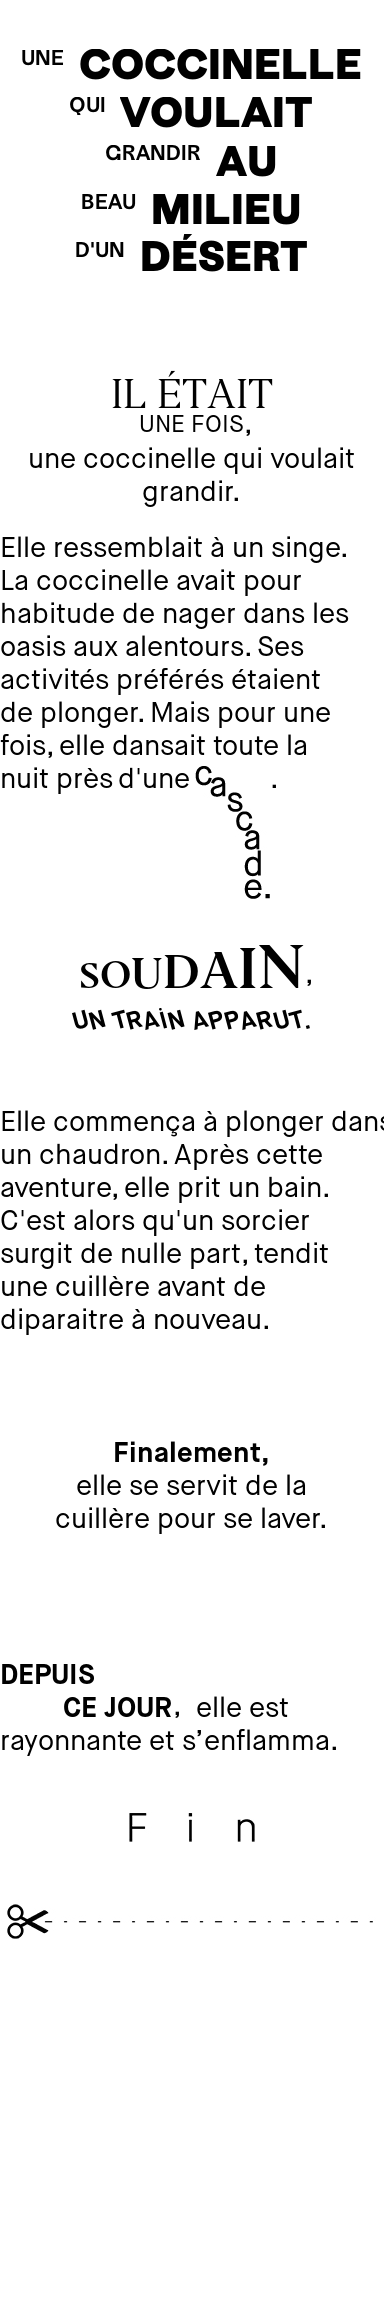
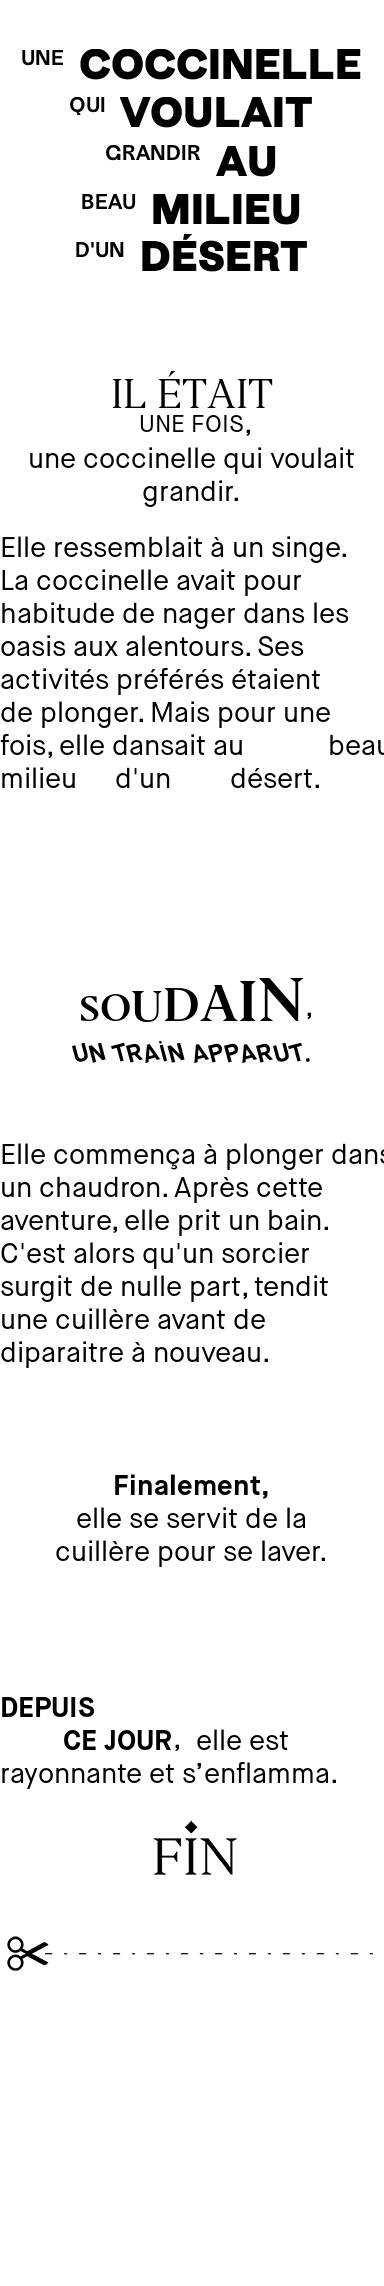
feat(story) : refacto place img place and add 'lune' effect

diff --git a/storydesign.py b/storydesign.py
@@ -143,86 +143,24 @@ class StoryDesign():
                             
                             
                 elif start_sentence == "à l'orée d'une forêt.":
-                    
                     left = effects.get_left_place(self.width, start_sentence, story_part, top, self.font_size)[0]
                     top = effects.get_left_place(self.width, start_sentence, story_part, top, self.font_size)[1]
-                            
-                    # place in the sentence
-                    words = start_sentence.split(" ")
-                    for word in words:
-                        if word == "forêt.":
-                            place_img = Image.open("assets/img/forêt.jpg")
-                            img_width, img_height = place_img.size
-                            comma_left = left + img_width
-                            
-                            if (left + img_width > self.width):
-                                effects.add_image("assets/img/forêt.jpg", True, top, img)
-                                context.text((comma_left, top), ', ', fill=self.text_color, font=text_maison_neue_book)
-                            else:
-                                effects.add_image("assets/img/forêt.jpg", True, top - spacing, img, left)
-                                context.text((comma_left, top - spacing), '.', fill=self.text_color, font=text_maison_neue_book)
-                        else :    
-                            context.text((left,top - spacing), word, fill=self.text_color, font=text_maison_neue_book)
-                            word_width, word_height = text_maison_neue_book.getsize(word)
-                            left += word_width + 5
-                            if (left + word_width) > self.width:
-                                left = 0
-                                top += spacing
+                    effects.place_img_position(self.width, start_sentence, spacing, self.font_size, self.text_color, top, left, context, img)
                 
                 elif start_sentence == "au coeur de la jungle.":
-                    
                     left = effects.get_left_place(self.width, start_sentence, story_part, top, self.font_size)[0]
                     top = effects.get_left_place(self.width, start_sentence, story_part, top, self.font_size)[1]
-                            
-                    # place in the sentence
-                    words = start_sentence.split(" ")
-                    for word in words:
-                        if word == "jungle.":
-                            place_img = Image.open("assets/img/jungle.jpg")
-                            img_width, img_height = place_img.size
-                            comma_left = left + img_width
-                            
-                            if (left + img_width > self.width):
-                                effects.add_image("assets/img/jungle.jpg", True, top, img)
-                                context.text((comma_left, top), ', ', fill=self.text_color, font=text_maison_neue_book)
-                            else:
-                                effects.add_image("assets/img/jungle.jpg", True, top - spacing, img, left)
-                                context.text((comma_left, top - spacing), '.', fill=self.text_color, font=text_maison_neue_book)
-                        else :    
-                            context.text((left,top - spacing), word, fill=self.text_color, font=text_maison_neue_book)
-                            word_width, word_height = text_maison_neue_book.getsize(word)
-                            left += word_width + 5
-                            if (left + word_width) > self.width:
-                                left = 0
-                                top += spacing
+                    effects.place_img_position(self.width, start_sentence, spacing, self.font_size, self.text_color, top, left, context, img)
                 
                 elif start_sentence == "près d'une cascade.":
-                    
                     left = effects.get_left_place(self.width, start_sentence, story_part, top, self.font_size)[0]
                     top = effects.get_left_place(self.width, start_sentence, story_part, top, self.font_size)[1]
-                            
-                    # place in the sentence
-                    words = start_sentence.split(" ")
-                    for word in words:
-                        if word == "cascade.":
-                            place_img = Image.open("assets/img/cascade.jpg")
-                            img_width, img_height = place_img.size
-                            comma_left = left + img_width
-                            
-                            if (left + img_width > self.width):
-                                effects.add_image("assets/img/cascade.jpg", True, top, img)
-                                context.text((comma_left, top), ', ', fill=self.text_color, font=text_maison_neue_book)
-                            else:
-                                effects.add_image("assets/img/cascade.jpg", True, top - spacing, img, left)
-                                context.text((comma_left, top - spacing), '.', fill=self.text_color, font=text_maison_neue_book)
-                        else :    
-                            context.text((left,top - spacing), word, fill=self.text_color, font=text_maison_neue_book)
-                            word_width, word_height = text_maison_neue_book.getsize(word)
-                            left += word_width + 5
-                            if (left + word_width) > self.width:
-                                left = 0
-                                top += spacing
-                        
+                    effects.place_img_position(self.width, start_sentence, spacing, self.font_size, self.text_color, top, left, context, img)
+                
+                elif start_sentence == "sur la lune.":
+                    left = effects.get_left_place(self.width, start_sentence, story_part, top, self.font_size)[0]
+                    top = effects.get_left_place(self.width, start_sentence, story_part, top, self.font_size)[1]
+                    effects.place_img_position(self.width, start_sentence, spacing, self.font_size, self.text_color, top, left, context, img)
 		    
 		elif start_sentence == "Un jour" or start_sentence == 'Un matin':
 		    effects.word_in_sentence(self.width, start_sentence, maison_neue_book, self.font_size, maison_neue_rotate, self.font_size + 25, self.text_color, top, context)

diff --git a/webserver.py b/webserver.py
@@ -66,17 +66,17 @@ class Server(BaseHTTPRequestHandler):
 def run(server_class=HTTPServer, handler_class=Server):
     
         #local story design
-##        paper = storydesign.StoryDesign()
-##        filename = paper.filename
-##        fileformat = paper.fileformat
-##        #title = "Un chat blanc tacheté d'orange sous l'océan"
-##        #story = "Il y a bien longtemps, un chat. Il était blanc tacheté d’orange. Il n’avait qu’un seul œil et adorait jouer avec les poissons. Un jour, il plongea au coeur de la jungle. Malheureusement, il se rendit compte qu'il ne savait pas nager. Heureusement, il était assez fou pour quand même se jeter à l'eau.@Tout à coup, un poisson rouge vint à sa rencontre. Le chat intrigué, s’approcha de ce dernier. Il lui tendit la patte. Le poisson ne comprenant pas son geste eu peur et s’enfuit à toute vitesse.@Puis, il alla se cacher derrière un rocher. De temps en temps, il jetait des coups d'oeil dans la direction du chat. Surpris, ce dernier parti de nouveau à sa rencontre. C'est alors qu'un sorcier surgit de nulle part, il jeta un sort et éclata de rire. Il transforma le chat en poisson. Ne voyant pas le chat, le poisson sorti de sa cachette.@Ensuite, il vit un poisson chat sans se douter une seconde de sa véritable identité. Le poisson chat tout heureux s’approcha de lui.@Depuis ce jour, ils furent inséparables. C'est ainsi que débuta leur amitié. Désormais, ils étaient attachés l'un à l'autre."    
-##        
-##        title = "Une coccinelle qui voulait grandir au beau milieu d'un désert"
-##        story = "Il était une fois, une coccinelle qui voulait grandir. Elle ressemblait à un singe. La coccinelle avait pour habitude de nager dans les oasis aux alentours. Ses activités préférés étaient de plonger. Mais pour une fois, elle dansait toute la nuit près d'une cascade. @Soudain, un train apparut. Elle commença à plonger dans un chaudron. Après cette aventure, elle prit un bain. C'est alors qu'un sorcier surgit de nulle part, tendit une cuillère avant de diparaitre à nouveau. @Finalement, elle se servit de la cuillère pour se laver. @Depuis ce jour, elle est rayonnante et s’enflamma."
-##        paper.text_in_img(unicode(title, 'UTF8'), unicode(story, 'UTF8'))
-##        # os.system('lpr ' + filename + fileformat + '')
-##        #print story
+        paper = storydesign.StoryDesign()
+        filename = paper.filename
+        fileformat = paper.fileformat
+        #title = "Un chat blanc tacheté d'orange sous l'océan"
+        #story = "Il y a bien longtemps, un chat. Il était blanc tacheté d’orange. Il n’avait qu’un seul œil et adorait jouer avec les poissons. Un jour, il plongea au coeur de la jungle. Malheureusement, il se rendit compte qu'il ne savait pas nager. Heureusement, il était assez fou pour quand même se jeter à l'eau.@Tout à coup, un poisson rouge vint à sa rencontre. Le chat intrigué, s’approcha de ce dernier. Il lui tendit la patte. Le poisson ne comprenant pas son geste eu peur et s’enfuit à toute vitesse.@Puis, il alla se cacher derrière un rocher. De temps en temps, il jetait des coups d'oeil dans la direction du chat. Surpris, ce dernier parti de nouveau à sa rencontre. C'est alors qu'un sorcier surgit de nulle part, il jeta un sort et éclata de rire. Il transforma le chat en poisson. Ne voyant pas le chat, le poisson sorti de sa cachette.@Ensuite, il vit un poisson chat sans se douter une seconde de sa véritable identité. Le poisson chat tout heureux s’approcha de lui.@Depuis ce jour, ils furent inséparables. C'est ainsi que débuta leur amitié. Désormais, ils étaient attachés l'un à l'autre."    
+        
+        title = "Une coccinelle qui voulait grandir au beau milieu d'un désert"
+        story = "Il était une fois, une coccinelle qui voulait grandir. Elle ressemblait à un singe. La coccinelle avait pour habitude de nager dans les oasis aux alentours. Ses activités préférés étaient de plonger. Mais pour une fois, elle dansait au beau milieu d'un désert. @Soudain, un train apparut. Elle commença à plonger dans un chaudron. Après cette aventure, elle prit un bain. C'est alors qu'un sorcier surgit de nulle part, tendit une cuillère avant de diparaitre à nouveau. @Finalement, elle se servit de la cuillère pour se laver. @Depuis ce jour, elle est rayonnante et s’enflamma."
+        paper.text_in_img(unicode(title, 'UTF8'), unicode(story, 'UTF8'))
+        # os.system('lpr ' + filename + fileformat + '')
+        #print story
         
 	host = commands.getoutput('hostname -I') #raspberry IP : depending the network
 	port = 8080

diff --git a/effects.py b/effects.py
@@ -578,6 +578,48 @@ def get_left_place(width, expression, story_part, top, font_size):
                 
     result.extend([left, top])
     return result
+
+
+def place_img_position(width, expression, spacing, font_size, text_color, top, left, context, img):
+    
+    if expression == "au coeur de la jungle.":
+        img_asset = "assets/img/jungle.jpg"
+    elif expression == "à l'orée d'une forêt.":
+        img_asset = "assets/img/forêt.jpg"
+    elif expression == "près d'une cascade.":
+        img_asset = "assets/img/cascade.jpg"
+    elif expression == "sur la lune.":
+        img_asset = "assets/img/lune.jpg"
+    
+    # place in the sentence
+    text_maison_neue_book = ImageFont.truetype(maison_neue_book, font_size, encoding="unic")
+    words = expression.split(" ")
+    for index, word in enumerate(words):
+        if index == len(words) - 1:
+            place_img = Image.open(img_asset)
+            img_width, img_height = place_img.size
+                            
+            if (left + img_width > width):
+                comma_left = img_width
+                if word != "cascade.":
+                    add_image(img_asset, True, top, img)
+                    context.text((comma_left, top), '.', fill=text_color, font=text_maison_neue_book)
+                else:
+                   add_image(img_asset, True, top + 5, img, 5) 
+            else:
+                comma_left = left + img_width
+                if word != "cascade.":
+                    add_image(img_asset, True, top - spacing, img, left)
+                    context.text((comma_left, top - spacing), '.', fill=text_color, font=text_maison_neue_book)
+                else:
+                    add_image(img_asset, True, top - spacing + 5, img, left + 5)
+        else :    
+            context.text((left,top - spacing), word, fill=text_color, font=text_maison_neue_book)
+            word_width, word_height = text_maison_neue_book.getsize(word)
+            left += word_width + 5
+            if (left + word_width) > width:
+                left = 0
+                top += spacing
     
 
 def add_image(url, add, top = 0, img_bg = False, left = 0):
